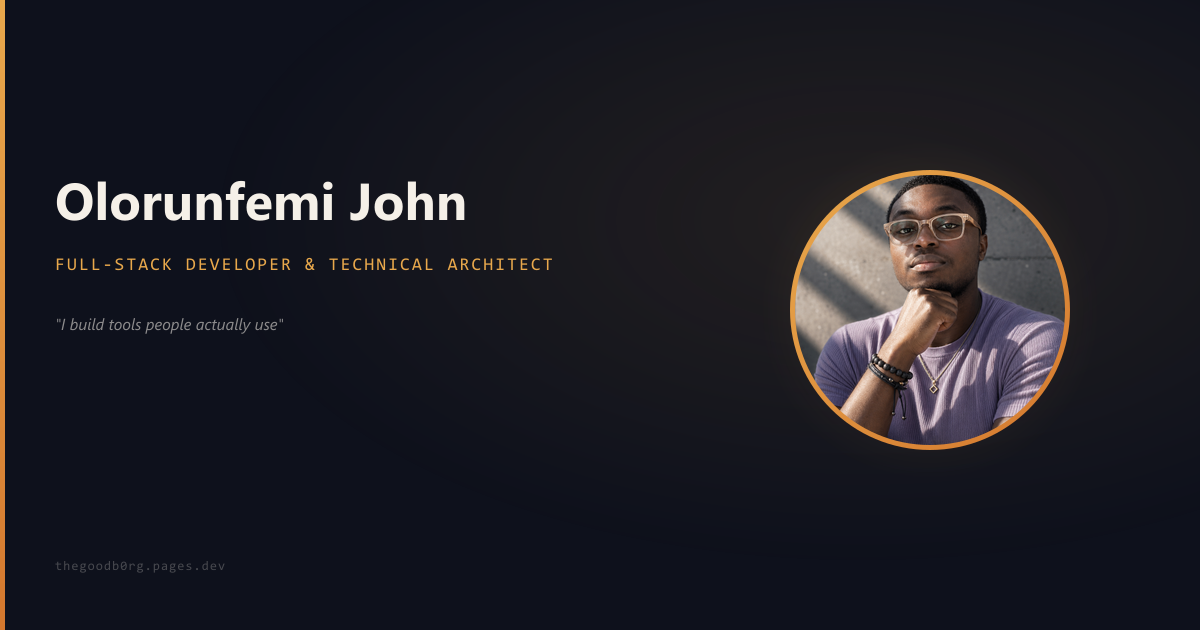
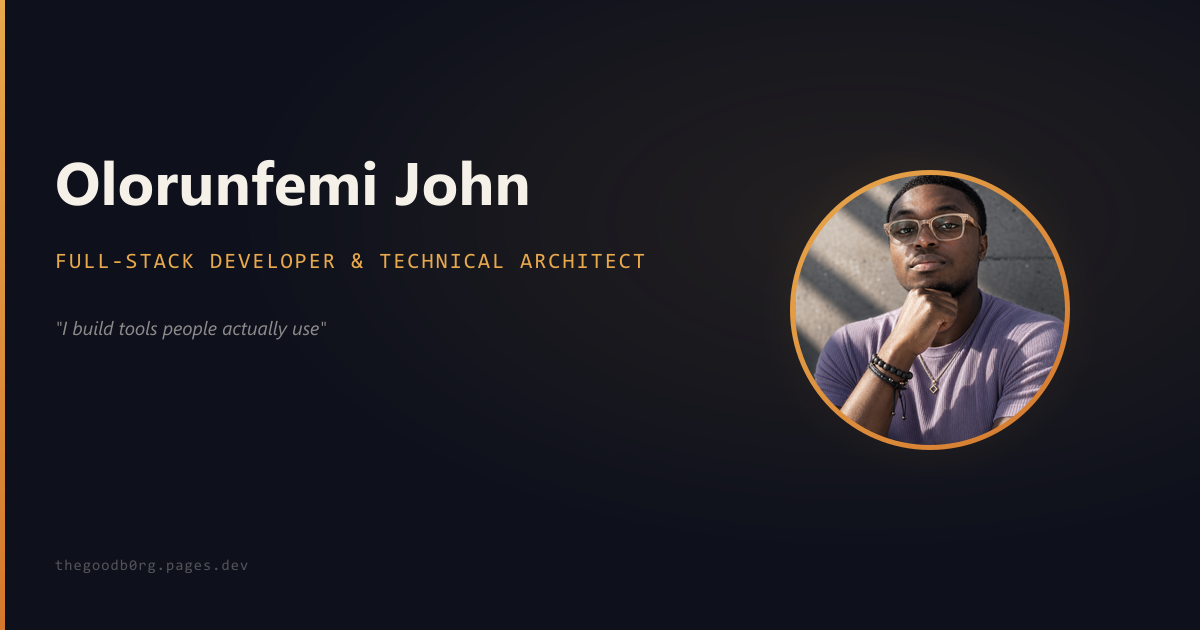
fix: scale up OG image text for better readability in previews

diff --git a/scripts/generate-og-image.js b/scripts/generate-og-image.js
@@ -48,10 +48,10 @@ async function generate() {
 
   const textOverlay = () => Buffer.from(`
     <svg width="${W}" height="${H}">
-      <text x="55" y="220" font-family="'Outfit','Segoe UI',sans-serif" font-size="52" font-weight="700" fill="#F5F0E8">Olorunfemi John</text>
-      <text x="55" y="270" font-family="'JetBrains Mono','Consolas',monospace" font-size="18" fill="#E8A84C" letter-spacing="2">FULL-STACK DEVELOPER &amp; TECHNICAL ARCHITECT</text>
-      <text x="55" y="330" font-family="'Inter','Segoe UI',sans-serif" font-size="16" fill="rgba(245,240,232,0.55)" font-style="italic">"I build tools people actually use"</text>
-      <text x="55" y="570" font-family="'JetBrains Mono','Consolas',monospace" font-size="13" fill="rgba(245,240,232,0.25)" letter-spacing="1">thegoodb0rg.pages.dev</text>
+      <text x="55" y="205" font-family="'Outfit','Segoe UI',sans-serif" font-size="60" font-weight="700" fill="#F5F0E8">Olorunfemi John</text>
+      <text x="55" y="268" font-family="'JetBrains Mono','Consolas',monospace" font-size="22" fill="#E8A84C" letter-spacing="2">FULL-STACK DEVELOPER &amp; TECHNICAL ARCHITECT</text>
+      <text x="55" y="335" font-family="'Inter','Segoe UI',sans-serif" font-size="19" fill="rgba(245,240,232,0.55)" font-style="italic">"I build tools people actually use"</text>
+      <text x="55" y="570" font-family="'JetBrains Mono','Consolas',monospace" font-size="15" fill="rgba(245,240,232,0.3)" letter-spacing="1">thegoodb0rg.pages.dev</text>
     </svg>
   `);
 
